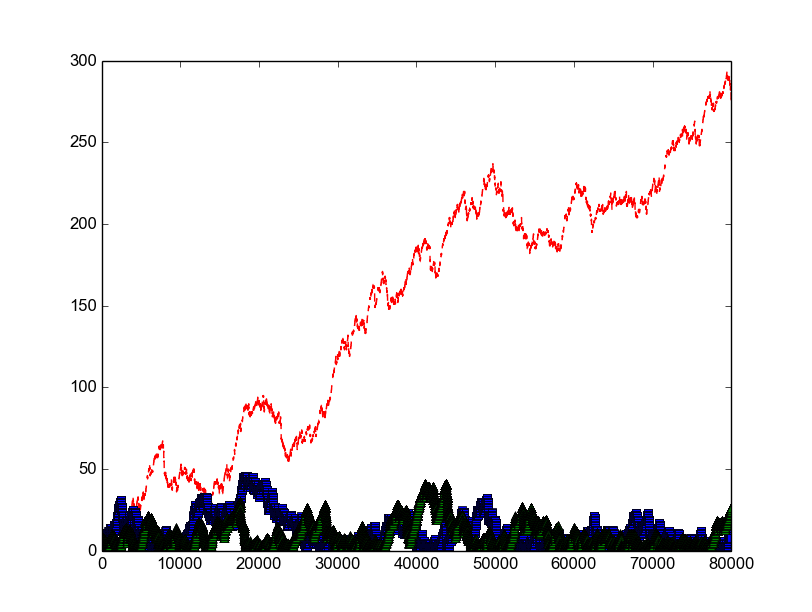
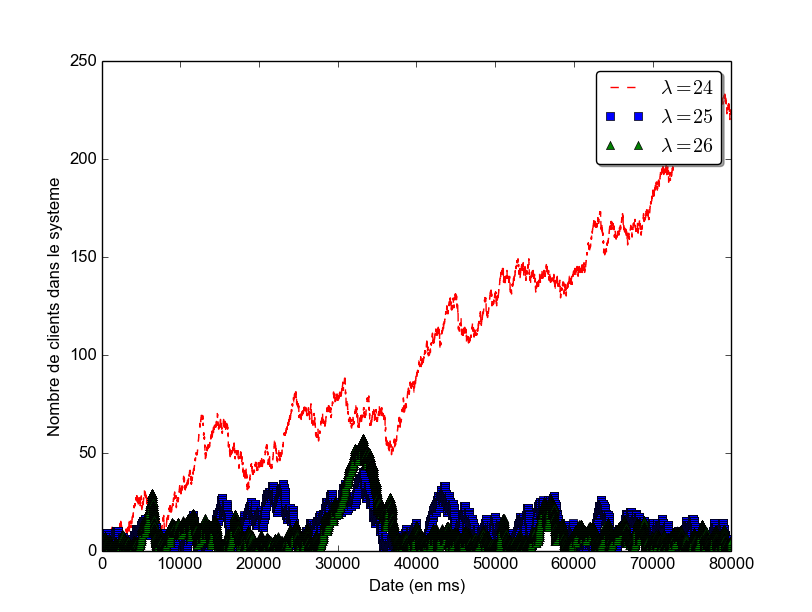
Ajout de label et nom aux axes des graphes. Avancée de rapport. Ajout de graphes

diff --git a/src/v2/0/simul_exercice1.py b/src/v2/0/simul_exercice1.py
@@ -82,7 +82,6 @@ def do(param_lambda1, param_lambda2, param_lambda3, time_out, param_expon):
         simul_var = simul[i]
         if len(simul_var[0]) != 0:
             temp_sum_time = 0
-            j = 0
             for valeur in simul_var[2]:
                 temp_sum_time += valeur
             mediane_var = mediane(simul_var[2])
@@ -92,5 +91,12 @@ def do(param_lambda1, param_lambda2, param_lambda3, time_out, param_expon):
             print "Le temps moyen pour lambda = " + str(list_param_lambda[i]) + " est de " + str(average_time) + "ms et la médiane est " + str(mediane_var) + "."
             print("\t L'intervalle de confiance de la moyenne vaut {0:.2f}.".format(intervalle_de_confiance_var))
     
-    plt.plot(simul[0][0], simul[0][1], 'r--', simul[1][0], simul[1][1], 'bs', simul[2][0], simul[2][1], 'g^')
+    plt.plot(simul[0][0], simul[0][1], 'r--', label="$\lambda = %d$" % param_lambda1)
+    if(len(simul[1][0]) != 0):
+        plt.plot(simul[1][0], simul[1][1], 'bs', label="$\lambda = %d$" % param_lambda2)
+    if(len(simul[2][0]) != 0):
+        plt.plot(simul[2][0], simul[2][1], 'g^', label="$\lambda = %d$" % param_lambda3)
+    plt.xlabel(u"Date (en ms)")
+    plt.ylabel(u"Nombre de clients dans le systeme")
+    plt.legend(shadow=True, fancybox=True)
     plt.show() # affiche la figure a l'ecran

diff --git a/src/v2/0/simul_exercice2.py b/src/v2/0/simul_exercice2.py
@@ -91,5 +91,12 @@ def do(param_lambda1, param_lambda2, param_lambda3, time_out, a, m):
             print "Le temps moyen pour lambda = " + str(list_param_lambda[i]) + " est de " + str(average_time) + "ms et la médiane est " + str(mediane_var) + "."
             print("\t L'intervalle de confiance de la moyenne vaut {0:.2f}.".format(intervalle_de_confiance_var))
     
-    plt.plot(simul[0][0], simul[0][1], 'r--', simul[1][0], simul[1][1], 'bs', simul[2][0], simul[2][1], 'g^')
+    plt.plot(simul[0][0], simul[0][1], 'r--', label="$\lambda = %d$" % param_lambda1)
+    if(len(simul[1][0]) != 0):
+        plt.plot(simul[1][0], simul[1][1], 'bs', label="$\lambda = %d$" % param_lambda2)
+    if(len(simul[2][0]) != 0):
+        plt.plot(simul[2][0], simul[2][1], 'g^', label="$\lambda = %d$" % param_lambda3)
+    plt.xlabel(u"Date (en ms)")
+    plt.ylabel(u"Nombre de clients dans le systeme")
+    plt.legend(shadow=True, fancybox=True)
     plt.show() # affiche la figure a l'ecran

diff --git a/src/v2/0/main.py b/src/v2/0/main.py
@@ -40,5 +40,5 @@ if __name__ == "__main__":
     import simul_exercice2 as s2
     
     
-#    s1.do(80, -1, -1, 50000, 0.1)
-    s2.do(80, -1, -1, 200000, 1.25, 2)
+#    s1.do(40, 60, -1, 1000000, 0.1)
+    s2.do(20, 30, -1, 40000, 1.25, 2)

diff --git a/rapport.md b/rapport.md
@@ -8,7 +8,7 @@ ISSC - 3A
 
 ### Introduction
 
-Nous avons choisi de développeur notre simulateur en Python car cela nous permettait de réaliser un projet dans un langage répandu mais que nous n'avions jamais utilisé.
+Nous avons choisi de développeur notre simulateur en Python car cela nous permettait de réaliser un projet dans un langage connu et répandu mais que nous n'avions jamais utilisé.
 
 ### Comment fonctionne notre générateur ?
 
@@ -39,21 +39,56 @@ Nous donnons à notre simulateur un time_out (en ms) qui correspond à la limite
   - La moyenne d'une distribution exponentielle de paramètre "p" est égale à l'inverse de son paramètre. Ici nous avons "p" = 1/10. Ainsi, le temps moyen de traitement d'une requête de type 2 est de 10ms.
   - **Le temps moyen de réponse est donc égal à la somme de ces trois temps moyens. Soit *49ms* (24 + 15 + 10).**
 2. cf partie précédente
-3.
-  1. Le système nous semble stable pour un &#955; strictement supérieur à 24. **TO PROVE WITH GRAPH**
-  2. On choisit &#955;=20 (courbe rouge) et &#955;=30 (courbe bleue).  
-    **METTRE LA COURBE**  
+3. //
+  1. Le système nous semble stable pour un **&#955; strictement supérieur à 24.**  
+  ![Image inconnue](./Graphs/24-25-26_80000.png)
+  2. On choisit &#955;=20 et &#955;=30.  
+    ![Image inconnue](./Graphs/20-30_10000.png)  
     On voit que pour &#955;=20 le nombre de clients présents à un instant t ne cesse d'augmenter avec le temps alors que celui pour &#955;=30 reste stable. **TO COMPLETE**
 4. On sait que pour &#955;=20 le système est instable, il n'y a pas de régime stationnaire. On ne pourra donc pas calculer la moyenne et la médiane du temps que met le serveur à répondre à une requête.  
   Pour &#955;=40 et &#955;=60 cela est possible car le système est stable.  
   L'intervalle de confiance de la moyenne est calculé à l'aide de la formule suivant : *erreur = &#963;/sqrt(n)* avec n le nombre d'échantillons de la simulation.  
-  L'intervalle de confiance pour la médiane ...  
-  **TO DO**
+  L'intervalle de confiance pour la médiane ... **TO DO**  
+  1. **&#955;=40**  
+    *Moyenne* = 55ms  
+    *Intervalle de confiance de la moyenne* = [54.87, 55.13] (erreur = 0.13ms)
+    *Médiane* = 51ms  
+    *Intervalle de confiance de la médiane* = [,] (erreur = ms)
+  2. **&#955;=60**  
+      *Moyenne* = 49ms  
+      *Intervalle de confiance de la moyenne* = [48.89, 49.11] (erreur = 0.11ms)
+      *Médiane* = 48ms  
+      *Intervalle de confiance de la médiane* = [,] (erreur = ms)
 
 ##### Exercice 2
 
 1. **TO DO**  
   Peut-on avoir un intervalle de confiance ?
-2.
-  1. Le sytème nous semble stable pour ...
-# TO DO
+2. //
+  1. Le système nous semble stable pour un **&#955; strictement supérieur à 24.**  
+  ![Image inconnue](./Graphs/24-25-26_40000_pareto.png)
+  2. On choisit &#955;=20 et &#955;=30.  
+    ![Image inconnue](./Graphs/20-30_40000_pareto.png)  
+    On voit que pour &#955;=20 le nombre de clients présents à un instant t ne cesse d'augmenter avec le temps alors que celui pour &#955;=30 reste stable. **TO COMPLETE**
+3. On sait que pour &#955;=20 le système est instable, il n'y a pas de régime stationnaire. On ne pourra donc pas calculer la moyenne et la médiane du temps que met le serveur à répondre à une requête.  
+Pour &#955;=40 et &#955;=60 cela est possible car le système est stable.  
+L'intervalle de confiance de la moyenne est calculé à l'aide de la formule suivant : *erreur = &#963;/sqrt(n)* avec n le nombre d'échantillons de la simulation.  
+L'intervalle de confiance pour la médiane ... **TO DO**  
+  1. **&#955;=40**  
+    *Moyenne* = ms  
+    *Intervalle de confiance de la moyenne* = [, ] (erreur = ms)
+    *Médiane* = ms  
+    *Intervalle de confiance de la médiane* = [,] (erreur = ms)
+  2. **&#955;=60**  
+      *Moyenne* = ms  
+      *Intervalle de confiance de la moyenne* = [, ] (erreur = ms)
+      *Médiane* = ms  
+      *Intervalle de confiance de la médiane* = [,] (erreur = ms)
+
+```
+Le temps moyen pour lambda = 20 est de 14054.4984128ms et la médiane est 14959.7977102.
+	 L'intervalle de confiance de la moyenne vaut 141.49.
+Le temps moyen pour lambda = 30 est de 1415.19221438ms et la médiane est 1184.25836968.
+	 L'intervalle de confiance de la moyenne vaut 36.40.
+
+```
